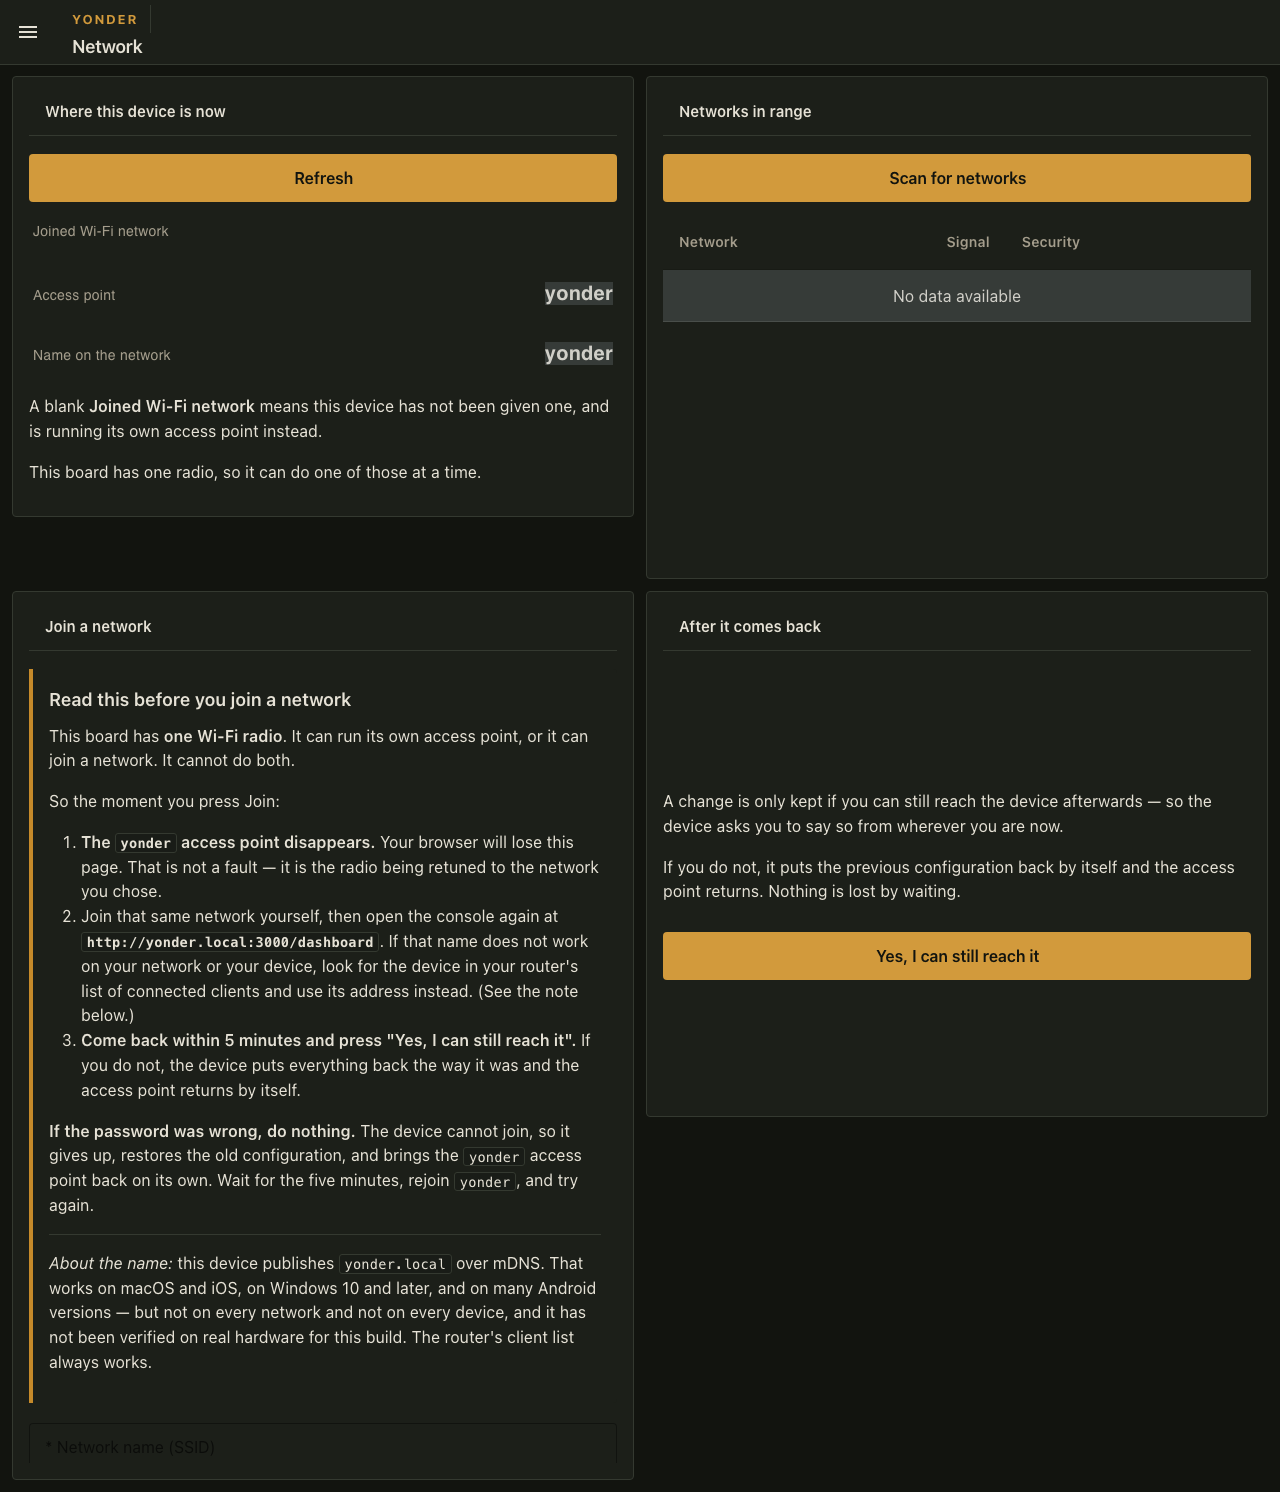
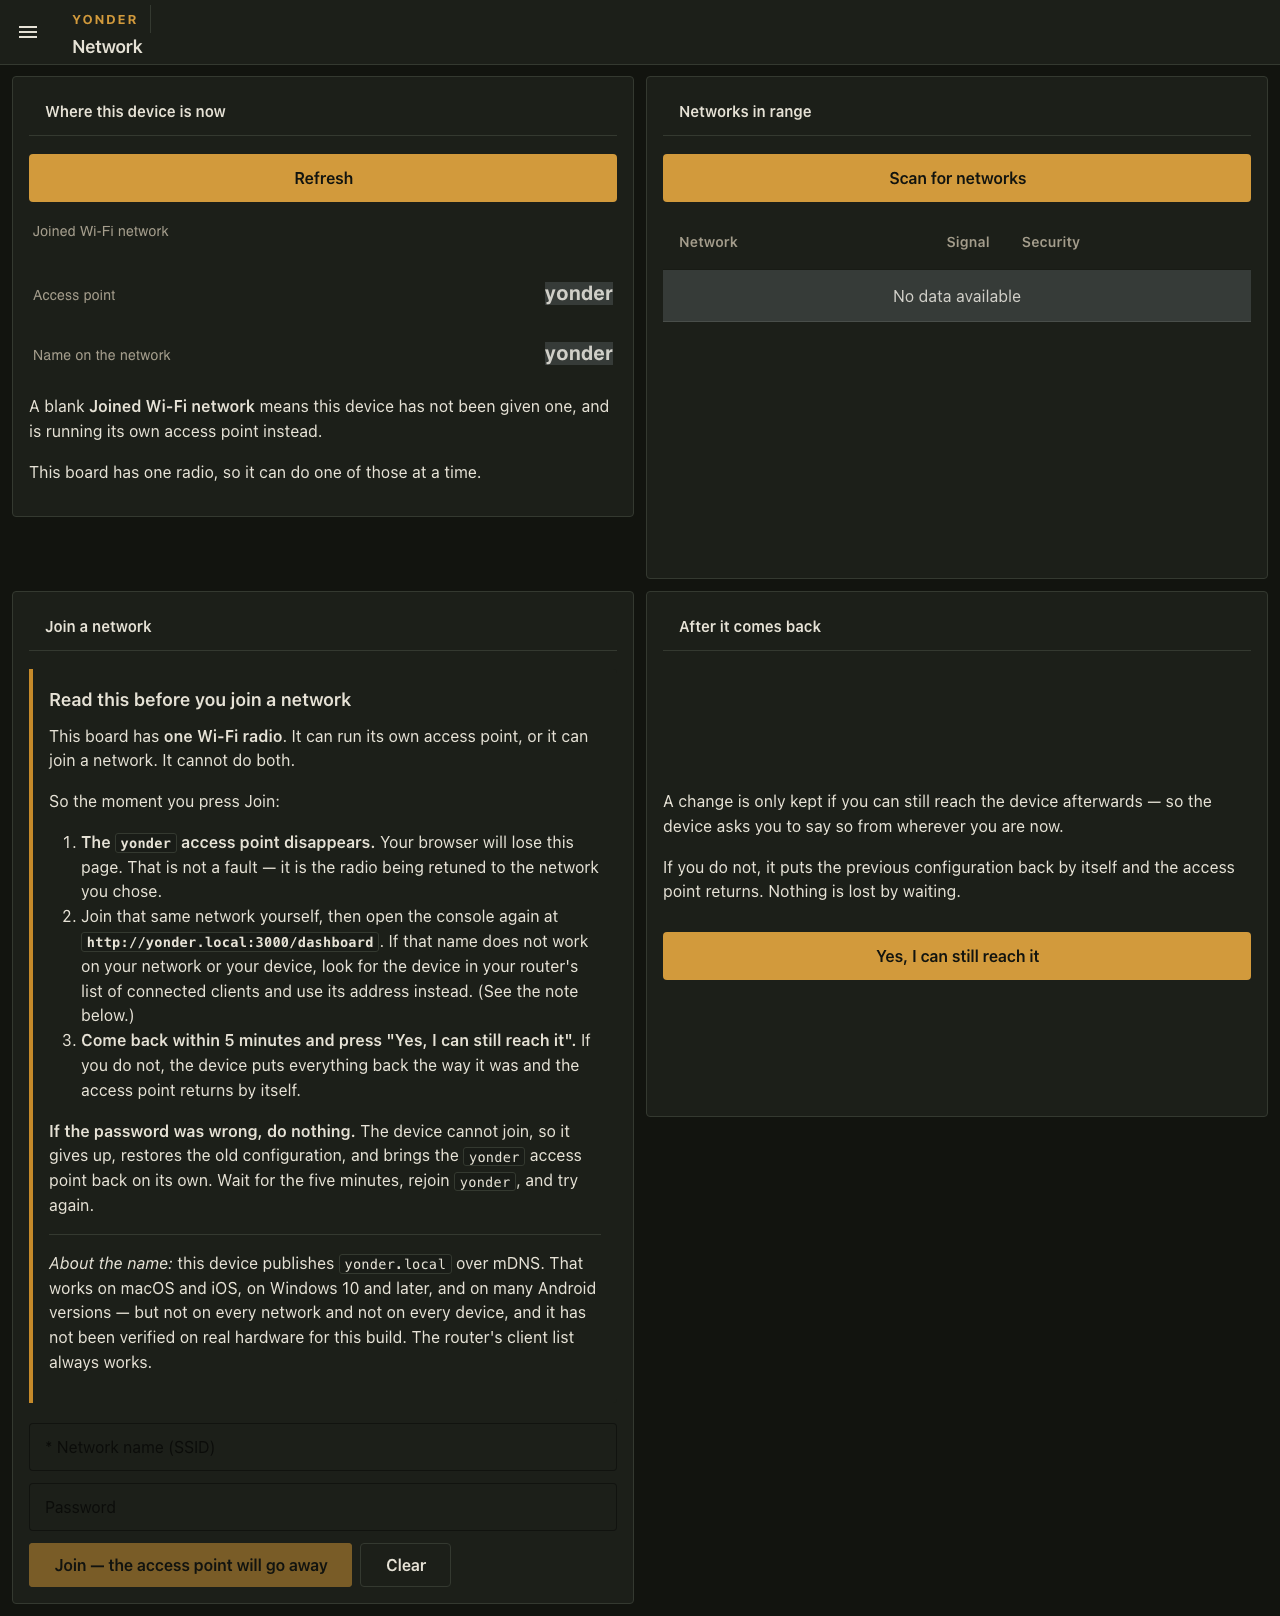
fix(console): a form was as clipped as the prose was — K-27
The K-13 fix was named after the wrong thing. It said "prose is never
clipped", so it covered markdown widgets and stopped there, and the same
defect sat untouched in every form on the console until the capture gate
photographed one.

The join form was 172px of content in a 48px widget: the operator saw the SSID
field and neither the Join button nor Clear. It is the form somebody fills in
immediately after reading "Read this before you join a network" — so the page
explained, carefully, that pressing Join would take the access point away and
that they had five minutes to get back, and then hid the button. The ping form
was 112px in 48px, 57% gone.

Neither is about prose. Dashboard sizes a widget from a configured row span,
and some content has no row count that is right at every width: text is taller
on a narrower screen and in a larger system font, and a form is as tall as the
fields it holds however many rows somebody typed into the editor. So the rule
is now what it should have been — a widget whose height is a function of its
content, rather than of its shape, sizes to that content and the grid takes the
rows it needs.

Two places, not one. The widget growing does nothing if the box inside it
still scrolls, and only the widget rule is visible in a diff of the selector,
so the inner form element gets its own rule and its own test.

theme.test.ts now asserts this per widget type rather than once over the
[…]

diff --git a/packages/yonder-core/src/console/theme.test.ts b/packages/yonder-core/src/console/theme.test.ts
@@ -176,25 +176,60 @@ describe("themeCss ships a whole shell", () => {
 });
 
 /**
- * Words an operator has to act on are never behind a scrollbar.
+ * Anything an operator has to read or fill in is never behind a scrollbar.
  *
- * Dashboard sizes a widget from a configured row span. Prose has no row count
- * that is correct at every width, and the default resolves that with
+ * Dashboard sizes a widget from a configured row span. Some content has no row
+ * count that is correct at every width, and the default resolves that with
  * `overflow: auto` — silently. On the first board this ran on, the Network
  * page's "Read this before you join a network" was 706px of text in a 372px
  * widget: 39% hidden, with nothing to indicate it. That block is what tells an
  * operator the access point is about to disappear and that they have five
  * minutes to confirm — the mitigation written for K-13.
+ *
+ * The fix for that was named after prose, so it covered markdown and stopped.
+ * The capture gate (R-UI-12) found the rest: the join form was 172px of
+ * content in 48px with 72% hidden, and the ping form 112px in 48px with 57%
+ * hidden (K-27). The join form is the one an operator fills in immediately
+ * after reading the warning above — so the page explained what pressing Join
+ * would cost and then hid the field they had to type into to do it.
+ *
+ * These tests are per widget type on purpose. A single assertion over a
+ * combined selector would pass while a type was quietly dropped from it.
  */
-describe("themeCss never clips prose", () => {
+describe("themeCss never clips content an operator has to act on", () => {
+  /** The widget types whose height is a function of content, not of shape. */
+  const sizesToContent = ["nrdb-ui-markdown", "nrdb-ui-form"];
+
   for (const t of ["day", "night"] as ThemeName[]) {
-    it(`lets markdown widgets size to their content (${t})`, () => {
+    for (const type of sizesToContent) {
+      it(`lets ${type} widgets size to their content (${t})`, () => {
+        const css = themeCss(t);
+        // The selector may be shared with other types, so find the rule this
+        // one is *in* rather than a rule that is only about it.
+        const rule = new RegExp(
+          `[^}]*\\.nrdb-ui-widget\\.${type}\\b[^{]*\\{[^}]*\\}`,
+          "s",
+        ).exec(css)?.[0] ?? "";
+        expect(rule, `there must be a rule covering ${type} widgets`).not.toBe("");
+        expect(rule).toMatch(/height:\s*auto/);
+        expect(rule).toMatch(/overflow:\s*visible/);
+        expect(rule).toMatch(/grid-row-end:\s*auto/);
+      });
+    }
+  }
+
+  /**
+   * A form clips in two places, and only one of them is visible in a diff of
+   * the widget rule: the widget growing does nothing if the box inside it
+   * still scrolls.
+   */
+  for (const t of ["day", "night"] as ThemeName[]) {
+    it(`unclips the form's own inner box too (${t})`, () => {
       const css = themeCss(t);
-      const rule = /\.nrdb-ui-widget\.nrdb-ui-markdown\s*\{[^}]*\}/s.exec(css)?.[0] ?? "";
-      expect(rule, "there must be a rule for markdown widgets").not.toBe("");
-      expect(rule).toMatch(/height:\s*auto/);
+      const rule = /[^}]*\.nrdb-ui-form form[^{]*\{[^}]*\}/s.exec(css)?.[0] ?? "";
+      expect(rule, "the inner form element needs its own rule").not.toBe("");
       expect(rule).toMatch(/overflow:\s*visible/);
-      expect(rule).toMatch(/grid-row-end:\s*auto/);
+      expect(rule).toMatch(/height:\s*auto/);
     });
   }
 });

diff --git a/packages/yonder-core/src/console/theme.ts b/packages/yonder-core/src/console/theme.ts
@@ -424,10 +424,12 @@ html, body, .v-application, .nrdb-app {
   margin: var(--yonder-space-4) 0;
 }
 
-/* ---- prose is never clipped ------------------------------------------
-   A Dashboard widget takes its height from a configured row span, and prose
-   does not have a row count that is right at every width: the same words are
-   taller on a narrower screen, in a larger system font, in another language.
+/* ---- content is never clipped ----------------------------------------
+   A Dashboard widget takes its height from a configured row span, and some
+   content has no row count that is right at every width: the same words are
+   taller on a narrower screen, in a larger system font, in another language,
+   and a form is as tall as the fields it holds however many rows somebody
+   typed into the editor.
 
    The default silently wins that argument with overflow: auto. On the first
    board this ran on, the Network page's "Read this before you join a network"
@@ -439,12 +441,37 @@ html, body, .v-application, .nrdb-app {
    an operator would have read the first half, pressed Join, and lost the page
    before reaching the part that says what to do next.
 
-   So prose sizes to its content and the grid takes the rows it needs. A fixed
-   height is legitimate for a chart or a gauge, where the shape is the point.
-   It is never legitimate for words somebody has to act on. */
-.nrdb-ui-widget.nrdb-ui-markdown {
+   **That fix was scoped too narrowly, and the capture gate found the rest.**
+   It named the defect "prose", so it covered markdown and stopped. Forms have
+   the identical problem for the identical reason, and two of them shipped
+   clipped: the join form was 172px of content in 48px with 72% hidden, and
+   the ping form 112px in 48px with 57% hidden. The join form is the one an
+   operator fills in immediately *after* reading the warning above - so the
+   page explained carefully what pressing Join would cost, and then hid the
+   field they had to type into to do it (K-27).
+
+   The rule is not about prose. It is: **a widget whose height is a function
+   of its content, rather than of its shape, sizes to that content and the
+   grid takes the rows it needs.** A fixed height is legitimate for a chart or
+   a gauge, where the shape is the point. It is never legitimate for something
+   an operator has to read or fill in.
+
+   Anything added here needs the same test in theme.test.ts, because the cost
+   of getting it wrong is silent. */
+.nrdb-ui-widget.nrdb-ui-markdown,
+.nrdb-ui-widget.nrdb-ui-form {
   grid-row-end: auto !important;
   grid-template-rows: none !important;
+  height: auto !important;
+  min-height: 0;
+  overflow: visible !important;
+}
+
+/* The form's own inner box, which is a second place the same clipping can
+   happen: the widget growing does nothing if what is inside it still scrolls.
+   Both are needed, and only one of them is visible in a stylesheet diff. */
+.nrdb-ui-form .nrdb-ui-form-content,
+.nrdb-ui-form form {
   height: auto !important;
   min-height: 0;
   overflow: visible !important;

diff --git a/docs/known-issues.md b/docs/known-issues.md
@@ -520,14 +520,20 @@ The capture gate found six violations of ADR-0009 on its first run, and they are
   can still reach it`, `Check reachability`, each 588 px of 588 px. R-UI-10. This is not a
   styling slip: a stock `ui-button` is a whole row of its group and cannot be smaller than
   one, so no stylesheet reaches it.
-- **Two forms clipping their own content** — the join form hides 72% of 172 px in 48 px, the
-  ping form 57% of 112 px in 48 px. The same defect as K-13 in a widget type nobody had
-  checked. `theme.ts` unclips markdown; a form has the same problem for the same reason, and
-  the join form is the one an operator fills in *after* reading the warning about losing the
-  page.
+- ~~**Two forms clipping their own content**~~ — **fixed.** The join form hid 72% of 172 px
+  in 48 px and the ping form 57% of 112 px in 48 px, so on the join form the operator saw the
+  SSID field and neither the Join nor the Clear button — immediately after reading the warning
+  that pressing Join would take the page away.
 
-The form clipping is the more urgent of the two: it hides input from somebody who is already
-being asked to do something irreversible. It may be fixable in `theme.ts` the way the
-markdown clipping was, without waiting for the rebuild.
+  The K-13 fix had been named after *prose*, so it covered markdown widgets and stopped;
+  forms had the identical problem for the identical reason. `theme.ts` now unclips **any
+  widget whose height is a function of its content rather than of its shape**, and the form's
+  own inner box as well — the widget growing does nothing if what is inside it still scrolls,
+  and only one of those two is visible in a stylesheet diff. `theme.test.ts` asserts it per
+  widget type, because one assertion over a combined selector would pass while a type was
+  quietly dropped from it. The join form now renders at 588×172 and the ping form at 588×112.
+
+The four spanning actions remain. They are not a styling slip and no stylesheet reaches them:
+a stock `ui-button` is a whole row of its group and cannot be smaller than one.
 
 **Closes when** the pages are rebuilt on the instrument library and the debt list is empty.
